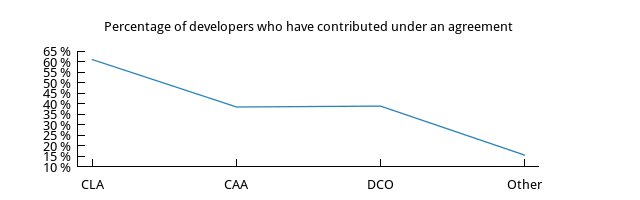
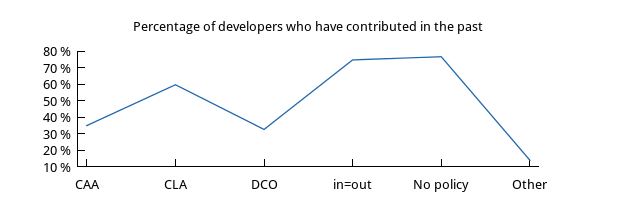
Refine calculations for contribution history to include more types of contribution.

diff --git a/bin/parse_developer_results.py b/bin/parse_developer_results.py
@@ -3,7 +3,7 @@
 import csv
 
 stats = {}
-stats['signed'] = {'license': 0, 'assign': 0, 'dco': 0, 'other': 0, 'ltotal': 0, 'atotal': 0, 'dtotal': 0, 'ototal': 0}
+stats['signed'] = {}
 stats['future'] = {
     'license': {
         'total': 0,
@@ -25,37 +25,30 @@ stats['future'] = {
     },
 }
 
+past_fields = {
+    'assignmentsigned': 'CAA',
+    'licensesigned': 'CLA',
+    'dcosigned': 'DCO',
+    'othersigned': 'Other',
+    'othersame': 'in=out',
+    'othernopolicy': 'No policy'
+}
+
 # Calculate stats from survey results
 with open('data/developer_survey_results.csv', 'rb') as csvfile:
     results = csv.DictReader(csvfile, delimiter=',', quotechar='"')
     for row in results:
-        if row['licensesigned'] == 'Yes':
-            stats['signed']['license'] += 1
-            stats['signed']['ltotal'] += 1
-
-        if row['licensesigned'] == 'No':
-            stats['signed']['ltotal'] += 1
-
-        if row['assignmentsigned'] == 'Yes':
-            stats['signed']['assign'] += 1
-            stats['signed']['atotal'] += 1
-
-        if row['assignmentsigned'] == 'No':
-            stats['signed']['atotal'] += 1
-
-        if row['dcosigned'] == 'Yes':
-            stats['signed']['dco'] += 1
-            stats['signed']['dtotal'] += 1
-
-        if row['dcosigned'] == 'No':
-            stats['signed']['dtotal'] += 1
-
-        if row['othersigned'] == 'Yes':
-            stats['signed']['other'] += 1
-            stats['signed']['ototal'] += 1
-
-        if row['othersigned'] == 'No':
-            stats['signed']['ototal'] += 1
+        for keyname in past_fields:
+            resultkey = past_fields[keyname]
+            if not resultkey in stats['signed']:
+                stats['signed'][resultkey] = {'yes': 0, 'total': 0}
+            if row[keyname] == 'Yes':
+                stats['signed'][resultkey]['yes'] += 1
+                stats['signed'][resultkey]['total'] += 1
+            if row[keyname] == 'No':
+                stats['signed'][resultkey]['total'] += 1
+            if row[keyname] == "I don't know":
+                stats['signed'][resultkey]['total'] += 1
 
         for keyname in stats['future']:
             cellvalue = row[keyname+'willing']
@@ -75,21 +68,13 @@ with open('data/developer_survey_results.csv', 'rb') as csvfile:
 dat_file = open('graphs/signed.dat', 'w')
 dat_file.write("# type,signed,total,percentage\n")
 
-license_percentage = float(stats['signed']['license']) / float(stats['signed']['ltotal']) * 100
-line = "CLA,%d,%d,%.2f\n" % (stats['signed']['license'], stats['signed']['ltotal'], license_percentage)
-dat_file.write(line)
-
-assign_percentage = float(stats['signed']['assign']) / float(stats['signed']['atotal']) * 100
-line = "CAA,%d,%d,%.2f\n" % (stats['signed']['assign'], stats['signed']['atotal'], assign_percentage)
-dat_file.write(line)
-
-dco_percentage = float(stats['signed']['dco']) / float(stats['signed']['dtotal']) * 100
-line = "DCO,%d,%d,%.2f\n" % (stats['signed']['dco'], stats['signed']['dtotal'], dco_percentage) 
-dat_file.write(line)
-
-other_percentage = float(stats['signed']['other']) / float(stats['signed']['ototal']) * 100
-line = "Other,%d,%d,%.2f\n" % (stats['signed']['other'], stats['signed']['ototal'], other_percentage) 
-dat_file.write(line)
+past_columns = ['CAA', 'CLA', 'DCO', 'in=out', 'No policy', 'Other' ]
+for keyname in past_columns:
+    print 'processing ' + keyname
+    print 'total is %d ' % stats['signed'][keyname]['total']
+    percentage = float(stats['signed'][keyname]['yes']) / float(stats['signed'][keyname]['total']) * 100
+    line = "%s,%d,%d,%.2f\n" % (keyname,stats['signed'][keyname]['yes'], stats['signed'][keyname]['total'], percentage)
+    dat_file.write(line)
 
 dat_file.close()
 
